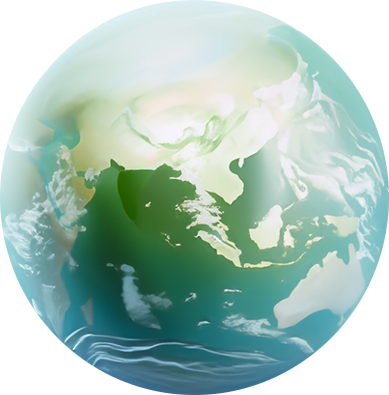
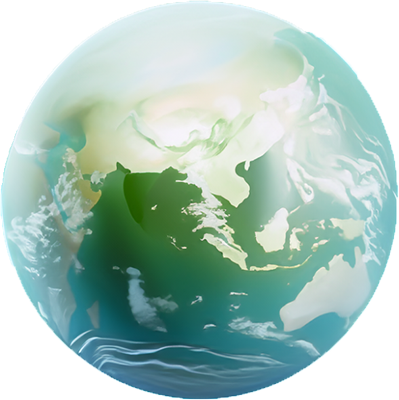
Update 8

diff --git a/styles.css b/styles.css
@@ -271,6 +271,7 @@ li {
   margin: 0 auto 1.5rem;
   max-width: 280px;
   padding: 1.2rem;
+  border: 1px solid var(--border);
   border-radius: 50%;
   background: radial-gradient(circle, rgba(255,255,255,0.16), rgba(0,128,128,0.08), transparent 68%);
 }
@@ -882,4 +883,19 @@ li {
     grid-row: auto;
     justify-content: flex-start;
   }
+}
+
+
+/* Factions and Organizations: full horizontal banners for major faction cards */
+.faction-banner {
+  width: 100%;
+  height: auto;
+  display: block;
+  object-fit: contain;
+  object-position: center;
+  margin: 0 0 1rem;
+  border-radius: calc(var(--radius) - 8px);
+  border: 1px solid var(--border);
+  background: rgba(0, 0, 0, 0.35);
+  box-shadow: 0 12px 28px rgba(0, 0, 0, 0.28);
 }

diff --git a/index.html b/index.html
@@ -167,6 +167,7 @@
 
       <div class="card-grid">
         <article class="info-card">
+          <img class="faction-banner" src="assets/images/legion-of-eternity.png" alt="The Legion of Eternity, Natsumi's supernatural army" />
           <h3>The Legion of Eternity</h3>
           <p>
             The Legion of Eternity is an army of 1,300,000 souls bound to Kai Natsumi, ranging from dragons and fallen angels to vampires, werewolves, demons, humans, oni, and other supernatural beings. It is divided beneath figures such as Yeqon, Vine, Han Riu, a Vampire General, and a Human General, with each section representing a different form of power or conquest. Its known souls include the Lost Army of Cambyses, the Damned Army of Hungary, the Assassins of Blood, the Hounds of War, Traitors, Oni Warriors, the Eight-Tailed Fox, Han Riu, Vine, and Yeqon.
@@ -194,6 +195,7 @@
           </p>
         </article>
         <article class="info-card">
+          <img class="faction-banner" src="assets/images/fushimi-clan.png" alt="The Fushimi Clan estate with foxes and kitsune" />
           <h3>The Fushimi Clan</h3>
           <p>
             The Fushimi Clan is a kitsune family that governs The Vixen Market and works with magic connected to the Umbra. The mother traditionally oversees political matters, while the father handles military matters, and the family is known for appraisal, authentication, and identifying even the oldest items in the world. Though they work with dark magic, they are considered kind and compassionate until crossed.
@@ -418,7 +420,7 @@
       </div>
 
       <figure class="cosmos-image">
-        <img src="assets/images/wisteria-planet.png" alt="A stylized planet icon representing Wisteria" style="width: 300px;" />
+        <img src="assets/images/wisteria-planet.png" alt="A stylized planet icon representing Wisteria" />
       </figure>
 
       <div class="hierarchy">
@@ -452,7 +454,7 @@
       </div>
 
       <article class="story-panel">
-        <img class="section-banner" src="assets/images/hangman-incident.jpg" alt="The Vixen Market during the Hangman Incident" />
+        <img class="section-banner" src="assets/images/vixen-market-location-horizontal.jpg" alt="The Vixen Market during a red-lit night" />
         <h3>The Hangman Incident</h3>
         <p>
           Recently, The Vixen Market was the scene of a horrific event now known as the Hangman Incident. During a celebration welcoming those who had joined Wisteria to help with its growing problems, an explosion tore through the festivities and plunged the streets into chaos. From the destruction emerged Yoshiba Akane, also known as Hangman, who began slaughtering those in her path and using corpses as puppets and weapons.